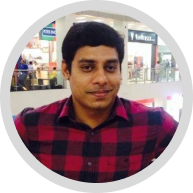
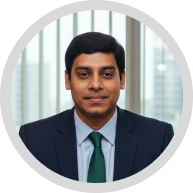
added team lead and updated photo

diff --git a/src/app/components/team/team.component.ts b/src/app/components/team/team.component.ts
@@ -16,6 +16,11 @@ export class TeamComponent {
       description: '.Net Full Stack Developer',
     },
     {
+      name: 'Karthik Elango',
+      image: 'assets/img/gallery/karthik.png',
+      description: 'Cloud Architect',
+    },
+    {
       name: 'GaneshPremnath',
       image: 'assets/img/gallery/ganesh.png',
       description: '.Net Full Stack Developer',

diff --git a/src/app/components/team/team.component.html b/src/app/components/team/team.component.html
@@ -8,7 +8,7 @@
       </div>
     </div>
 
-    <div class="row">
+    <div class="row d-flex justify-content-center">
       <div
         *ngFor="let member of teamMembers"
         class="col-lg-3 col-md-4 col-sm-6 mb-4"
